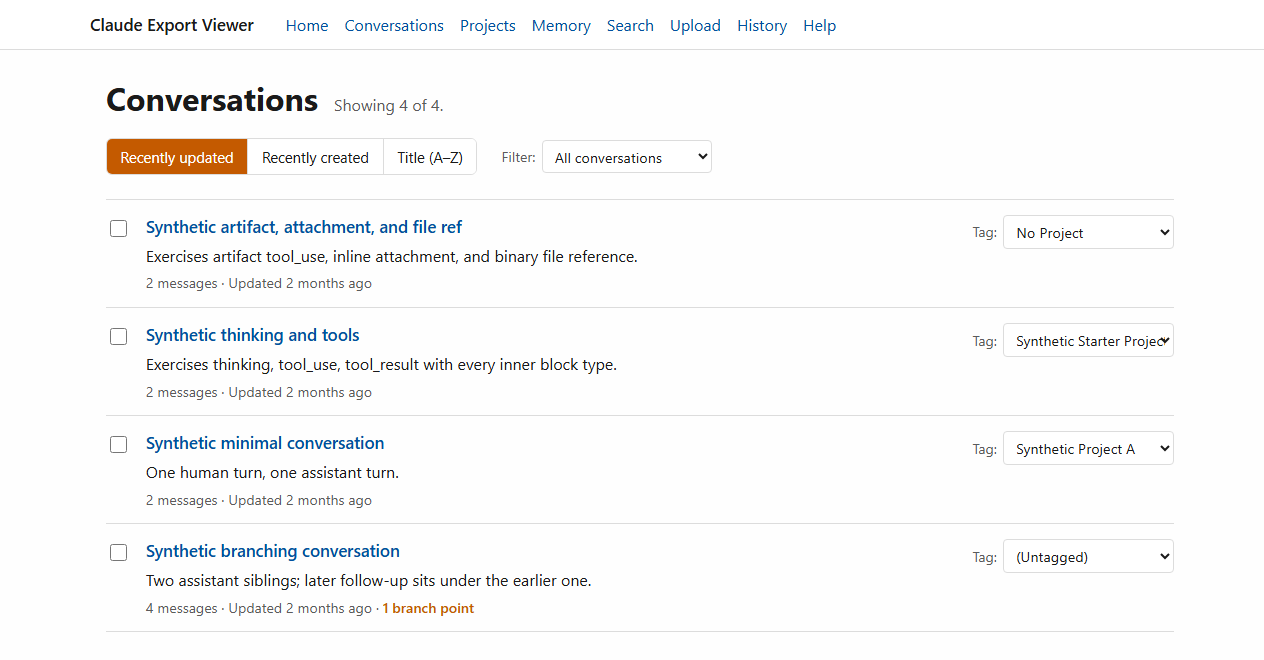
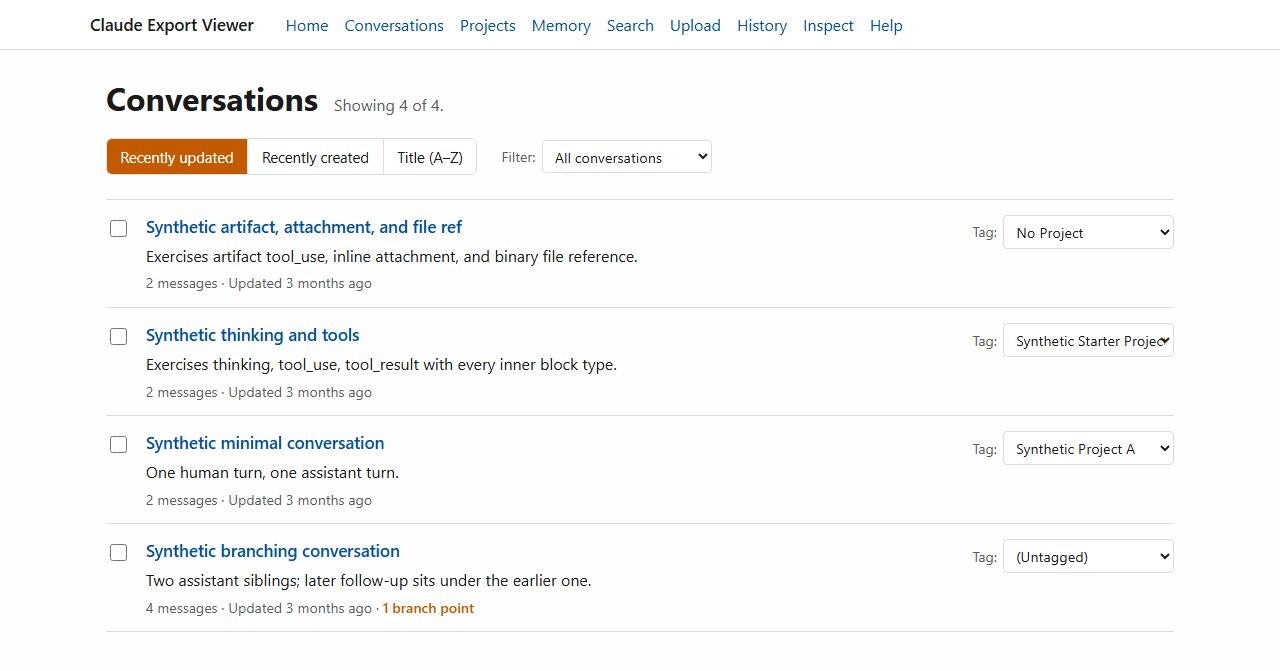
v1.2.5 Session P: close-out — push amendment, attachment-toggle clarity, queue additions, screenshot retakes; bump and tag
Phase 1 (staged, operator-reviewed at the hard-stop boundary): CLAUDE.md
session-end step 6 now requires pushing the branch and all tags (the
push-gap finding from the 2026-07-06 launcher verification); byte-exact
tooltip on the Include attachment text control on both surfaces plus the
help.md sentence, claim verified against serializer, parser, and files
notice; three 1.2.6+ queue items recorded in the plan; all four README
screenshots retaken from the synthetic fixture via an isolated instance
per the Session G locked decisions (help.png deliberately full-height to
show the current section list).

Phase 2 (operator go-ahead): version bumped to 1.2.5 (pyproject.toml,
the only declaration), plan updated — Session P locked decisions,
v1.2.5 closed, public flip recorded as pending operator action — and
the session report filed with its verification matrix.

470 tests passing; ruff and black clean.

diff --git a/templates/conversation_detail.html b/templates/conversation_detail.html
@@ -72,7 +72,8 @@
             <input type="hidden" name="thinking" value="0">
             Include thinking blocks
           </label>
-          <label class="export-option">
+          <label class="export-option"
+                 title="Applies to text attachments; binary files are never included in exports.">
             <input type="checkbox" name="attachments" value="1" checked>
             <input type="hidden" name="attachments" value="0">
             Include attachment text

diff --git a/templates/conversations.html b/templates/conversations.html
@@ -65,7 +65,8 @@
         <input type="hidden" name="thinking" value="0">
         Include thinking blocks
       </label>
-      <label class="export-option">
+      <label class="export-option"
+             title="Applies to text attachments; binary files are never included in exports.">
         <input type="checkbox" name="attachments" value="1" checked>
         <input type="hidden" name="attachments" value="0">
         Include attachment text

diff --git a/docs/briefs/v1.2.5-session-p-report.md b/docs/briefs/v1.2.5-session-p-report.md
@@ -1,0 +1,117 @@
+# v1.2.5 — Session P Report: close-out (two-phase)
+
+Brief: `docs/briefs/v1.2.5-session-p-brief.md` (committed at session start, `9a05e06`).
+Session date: 2026-07-06. Final commit hash unknown at writing time (this report is part
+of the session commit); cite the commit message "v1.2.5 Session P: close-out — push
+amendment, attachment-toggle clarity, queue additions, screenshot retakes; bump and tag"
+or the `v1.2.5` tag.
+
+## Phase 1 — implemented and staged, nothing committed
+
+- **P1** — CLAUDE.md session-end checklist step 6 replaced byte-exact with the push
+  amendment: commit, then push the branch and all tags to origin.
+- **P2** — byte-exact `title` tooltip on the **Include attachment text** control, and the
+  byte-exact sentence appended to help.md's "Single conversations" paragraph (reflowed to
+  the one-line-per-paragraph convention, wording untouched). The claim was verified
+  against the serializer, the parser, and the reading view before staging (matrix rows
+  4–7).
+- **P3** — the three 1.2.6+ queue items added to `docs/plan.md` byte-exact; a Session P
+  entry created recording launcher verification complete on both platforms (POSIX
+  2026-07-06, Windows 2026-07-06, operator reports in backups) and the push-gap finding
+  that produced P1 (remote found nineteen commits and two tags stale during the
+  2026-07-06 launcher verification).
+- **P4** — all four README screenshots re-taken from the synthetic fixture via an
+  isolated instance per the Session G locked decisions: fixture `export_source` (the
+  explicit-source path bypasses the pickle cache and history recording by construction),
+  temp `db_path` in the session scratchpad, `source_paths` pinned to
+  `synthetic_export.zip`, tags seeded through the real `set_tag` API to match the v1.1.0
+  shot (Project A / Starter Project B / No Project / untagged), footer excluded from
+  every shot. Capture: headless Edge (Chromium) driven by a scratch-only script; nothing
+  screenshot-related touched the repo or `cache/`. Same four filenames under
+  `docs/images/`; README references and alt texts verified unchanged and accurate.
+- **P5** — full suite 470 passed, ruff clean, black clean with the staged changes;
+  privacy grep (checklist step 4) on staged filenames: no hits. Halted at the phase
+  boundary with everything staged and nothing committed.
+
+### Soft gates resolved in Phase 1 (flagged at the boundary)
+
+1. **Tooltip mechanism and reach** — `title` attribute on the
+   `<label class="export-option">` element, applied to **both** surfaces the control
+   renders on (detail-page fieldset and conversations-list bulk bar). The brief names
+   "the control" in the singular; it exists in two places and the trap is identical in
+   both.
+2. **Footer handling** — hidden at capture time via a style injected by the scratch
+   server wrapper rather than post-hoc pixel cropping. Same visible result (shots end at
+   the content, no footer anywhere), and `source_paths` was pinned regardless, so the
+   footer never carried a local path even off-screen.
+3. **help.png framing** — shipped at full page height (1280×2364 vs the old 1264×1295
+   crop). The brief requires the retake to reflect "the help page's current sections",
+   and Session O's A7 verdict called the old shot misleading precisely for missing
+   sections; a matching crop would re-hide Orphans through Troubleshooting. All current
+   sections are visible, the tagging section expanded via its public deep-link anchor.
+4. **Session P plan entry** — none existed, so Phase 1 created an in-progress entry
+   carrying exactly the two facts the brief said to record; Phase 2 converted it to the
+   shipped entry with locked decisions.
+
+### Hard stops
+
+The designed Phase 1 → Phase 2 boundary was honoured: nothing committed before operator
+review. No sanitiser or stack change was made or needed; no user-facing copy exists
+beyond the brief's verbatim pieces; no edited-doc claim failed verification.
+
+## Phase boundary
+
+The operator reviewed the staged changes and the four PNGs and gave the Phase 2
+go-ahead.
+
+## Phase 2 — on operator go-ahead
+
+1. Session work committed (one session commit; the brief was committed separately at
+   session start per the opening prompt).
+2. Version bumped to **1.2.5** — the version is declared in exactly one place,
+   `pyproject.toml` (`viewer/export.py` reads it via `tomllib` at runtime; nothing else
+   carries a literal).
+3. `docs/plan.md` updated: Session P locked decisions recorded; v1.2.5 marked shipped
+   (closed); the run.sh re-verification and demo-fixture roadmap items closed; the
+   public flip recorded as **pending operator action** — the flip itself is never
+   performed by a session.
+4. Annotated tag `v1.2.5` created after the session-end checklist passed; branch and all
+   tags pushed to origin per the amended step 6. If this report is visible on origin,
+   the push happened.
+5. This report filed per checklist step 8 and committed with the session's work. The
+   repo ends the session **still private**.
+
+## Verification matrix
+
+| # | Claim | How verified | Result |
+|---|---|---|---|
+| 1 | P1 step 6 text byte-exact | Staged diff compared character-for-character against the brief's verbatim block | Pass |
+| 2 | P2 tooltip text byte-exact | Staged diff vs verbatim block | Pass |
+| 3 | P2 help.md sentence byte-exact, wording untouched, reflowed to one line | Appended to the existing paragraph line; diff shows a single-line change | Pass |
+| 4 | Toggle applies to text attachments only | `viewer/export.py` — `include_attachment_text` gates `_attachment_segment` alone; nothing else reads it | Pass |
+| 5 | Binary files never included in any export | `_files_segment` emits a names-only notice unconditionally; `FileRef` (parser) holds only `file_uuid` + `file_name` — no binary content exists in the archive to include; corroborated by Session O's B3 verdict | Pass |
+| 6 | "Anthropic's archive stores only references to them" | Same `FileRef` shape; consistent with help.md's existing "only references" claim and `docs/export-schema.md` | Pass |
+| 7 | Files-notice behaviour matches the new copy | Reading view (`templates/_message.html`) renders "N binary file(s) attached (not included in export)" — the same statement the new copy makes | Pass |
+| 8 | P3 three queue items byte-exact | Inserted verbatim into the 1.2.6+ block, joining the three existing queued toggles | Pass |
+| 9 | Retakes reflect the current UI | Eyeballed all four: reordered nav (Home, Conversations, Projects, Memory, Search, Upload, History, Inspect, Help) in every shot; Export options fieldset + Copy conversation + Print / Save as PDF on the branch shot; help shows all current sections including "Inspecting another export" and "Exporting conversations" | Pass |
+| 10 | README references match the filenames | The four `docs/images/*.png` references unchanged; alt texts still describe the retaken content accurately — no README edit needed | Pass |
+| 11 | Isolation held (Session G locked decisions) | Fixture `export_source` parsed fresh (explicit-source path bypasses the pickle cache and history recording by construction); `db_path` in the session scratchpad; `source_paths` pinned; `cache/` untouched by the screenshot flow | Pass |
+| 12 | Full test suite (Phase 1, staged changes) | `pytest`: 470 passed | Pass |
+| 13 | Full test suite (Phase 2, after the version bump) | `pytest`: 470 passed | Pass |
+| 14 | Lint/format | `ruff check .` all checks passed; `black --check .` 42 files unchanged | Pass |
+| 15 | Privacy grep, checklist step 4 | Staged filenames: no hits | Pass |
+| 16 | Checklist step 5 (real-export content grep) | Not triggered — this session read only the synthetic fixture, never the real export's content | N/A |
+| 17 | Version bumped everywhere it is declared | Grep for version declarations: `pyproject.toml` line 7 is the only literal; `viewer/export.py` reads it via `tomllib` | Pass |
+| 18 | Nothing committed before the phase boundary | `git status` at the halt: staged changes only; HEAD was `9a05e06` (the brief) | Pass |
+
+## State of the repo (for the flip decision)
+
+v1.2.5 is complete and tagged: the delta audit is clean (Session O), launcher
+verification is complete on both platforms with operator reports in backups, the
+screenshots are current synthetic-fixture retakes reviewed at the phase boundary, the
+docs and help copy carry verified-documentation status, the dependency ranges resolve
+clean, and the full suite (470 tests), ruff, and black are green at the tag. The
+session-end checklist now ends at a pushed remote, so origin matches local through
+`v1.2.5`. What remains is exactly the operator's territory: create GitHub Releases from
+the version tags with short changelogs, then flip the repo public. Nothing in the tree
+is known to block the flip.

diff --git a/docs/plan.md b/docs/plan.md
@@ -372,7 +372,11 @@ Tagged `v1.2.0`. All four sessions (K–N) shipped; per-session locked decisions
     help.md gained the authored "Exporting conversations" section directly after
     "Reading a conversation". Both verified claim-by-claim (report matrix).
 
-## v1.2.5 — in progress
+## v1.2.5 — shipped (closed)
+
+Tagged `v1.2.5`. Both sessions (O, P) shipped; per-session locked decisions below. The
+version closes the core product's definition of done; the public flip is **pending
+operator action** — the flip itself is never performed by a session.
 
 - **Session O** *(shipped)* — public-flip delta audit + operator pass fixes (brief:
   `docs/briefs/v1.2.5-session-o-brief.md`; report: `docs/briefs/v1.2.5-session-o-report.md`).
@@ -407,6 +411,36 @@ Tagged `v1.2.0`. All four sessions (K–N) shipped; per-session locked decisions
     **within the existing `<7` cap** (soft gate; caps unchanged). Screenshots: all four
     stale, `conversation-branches.png` and `help.png` now misleading — retakes belong to
     the close session (public voice).
+- **Session P** *(shipped)* — close-out, two-phase (brief:
+  `docs/briefs/v1.2.5-session-p-brief.md`; report:
+  `docs/briefs/v1.2.5-session-p-report.md`). Phase 1 implemented and staged with nothing
+  committed; Phase 2 committed, bumped to 1.2.5, tagged `v1.2.5`, and pushed on operator
+  go-ahead. Locked decisions:
+  - Launcher verification is **complete on both platforms** (POSIX 2026-07-06, Windows
+    2026-07-06, operator reports in backups) — closes the roadmap's run.sh
+    re-verification item.
+  - The push-gap process finding produced P1: the remote was found nineteen commits and
+    two tags stale during the 2026-07-06 launcher verification — the session-end
+    checklist said commit, never push. CLAUDE.md step 6 now requires pushing the branch
+    and all tags to origin.
+  - Attachment-toggle clarity: byte-exact `title` tooltip on the **Include attachment
+    text** control on both surfaces it renders (detail-page fieldset and
+    conversations-list bulk bar), plus the byte-exact help.md sentence appended to
+    "Single conversations". The claim was verified before staging: the serializer's
+    toggle gates text attachments only (`_files_segment` is unconditional and
+    names-only), the parser's `FileRef` carries uuid + name — the archive holds no
+    binary content — and the reading view's files notice states the same.
+  - Screenshot retakes: all four README shots re-taken from the synthetic fixture via an
+    isolated instance per the Session G locked decisions (fixture `export_source`, temp
+    `db_path`, `source_paths` pinned to the bare filename, tags seeded through the real
+    `set_tag` API, footer excluded from every shot — hidden at capture time, same
+    visible outcome as cropping). `help.png` is deliberately full-page height now: the
+    current section list is the point, after Session O's A7 found the old crop
+    misleading for hiding sections. README references and alt texts verified unchanged
+    and accurate.
+  - The demo-fixture roadmap decision closes with the retakes: the synthetic-fixture
+    shots were operator-reviewed at the phase boundary and shipped; no purpose-built
+    demo fixture.
 
 ## Roadmap (post-v1.1)
 
@@ -451,11 +485,13 @@ Theme: a clean, public-safe base. Closes exactly as scoped.
   content to disk. *(done — Session O, verdicts above; adds screenshot retakes to the close
   session's list.)*
 - run.sh re-verification on a live USB session (the launcher-hardening changes return it to
-  unverified-on-POSIX; the operator procedure exists).
+  unverified-on-POSIX; the operator procedure exists). *(done — operator verification
+  complete on both platforms, 2026-07-06; recorded in Session P.)*
 - Demo-fixture decision: optional purpose-built fixture if the synthetic screenshots read
-  too plainly.
+  too plainly. *(resolved — Session P: retakes from the synthetic fixture shipped after
+  operator review at the phase boundary; no purpose-built fixture.)*
 - GitHub Releases created from the version tags with short changelogs; the repo flips
-  public.
+  public. *(pending operator action — the flip is never performed by a session.)*
 
 ### Later (unscheduled, non-blocking)
 
@@ -468,6 +504,19 @@ Theme: a clean, public-safe base. Closes exactly as scoped.
   conversation summary appears — metadata-only shipped as Session O's fixed resolution:
   frontmatter when present, so Copy omits it and Print keeps showing it), plus whatever
   lived use surfaces.
+- Embedded-HTML display policy — the viewer and print strip disallowed HTML tags from
+  displayed text (a literal `<details>` typed in a message vanishes from display), losing
+  characters the author wrote; evaluate escape-to-visible-text as the display default, and
+  separately whether closed, well-formed details blocks deserve real collapsible
+  rendering — a sanitiser-allowlist decision requiring its own written brief.
+- Launcher message polish (POSIX) — on the missing-venv-module path, Python's raw
+  ensurepip error prints before the friendly message; consider suppressing or summarising
+  the underlying stderr so the friendly message stands alone.
+- Launcher detection polish (Windows) — when the `py` launcher's default is pinned to an
+  older Python, installing a newer one doesn't change what `py -3` reports, so the too-old
+  message's advice can appear not to work; consider probing the launcher's full list
+  (`py -0p`) or versioned qualifiers before declaring "too old", or mentioning the pin
+  possibility in the message.
 
 Order between the two larger items below is undecided until development resumes; the
 current lean is portable tag state first.

diff --git a/viewer/content/help.md b/viewer/content/help.md
@@ -69,7 +69,7 @@ Any conversation can be downloaded as a Markdown file — the message text exact
 
 ### Single conversations
 
-On a conversation's page, use **Export**. The file captures the branch combination you're currently viewing — switch branches first if you want a different path. Two checkboxes control the contents: **Include thinking blocks** (off by default — Claude's reasoning is often the most sensitive part of a conversation) and **Include attachment text** (on by default; untick it to keep attachments as one-line references).
+On a conversation's page, use **Export**. The file captures the branch combination you're currently viewing — switch branches first if you want a different path. Two checkboxes control the contents: **Include thinking blocks** (off by default — Claude's reasoning is often the most sensitive part of a conversation) and **Include attachment text** (on by default; untick it to keep attachments as one-line references). Attachment text means text-based attachments; binary files (images, PDFs, and so on) are never included in any export — Anthropic's archive stores only references to them.
 
 ### Exporting a selection
 

diff --git a/CLAUDE.md b/CLAUDE.md
@@ -51,7 +51,8 @@ At the end of every session:
    `git diff --cached | Select-String -Pattern "(conversations\.json|projects\.json|users\.json|memor(y|ies)|uuid)"`
    and eyeball every hit — the point is to catch real conversation text, titles, or identifiers
    that slipped into docs, fixtures, or comments. Filenames alone (step 4) don't catch this.
-6. Commit with a descriptive message. Do not leave sessions uncommitted.
+6. Commit with a descriptive message, then push the branch and all tags to origin. Do not
+   leave sessions uncommitted or unpushed.
 7. Update the plan document (`docs/plan.md`): mark shipped items as locked decisions, prune
    obsolete detail.
 8. Write the session report, including its verification matrix, to `docs/briefs/`
